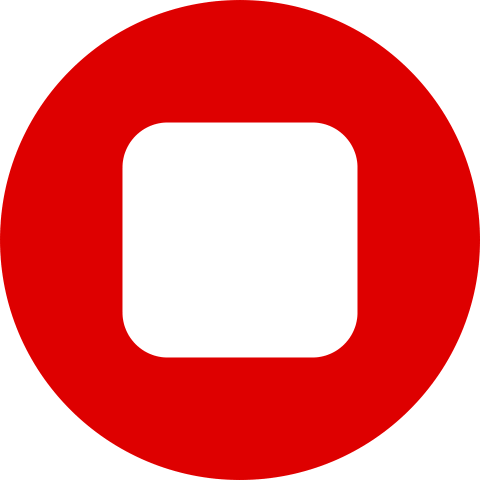
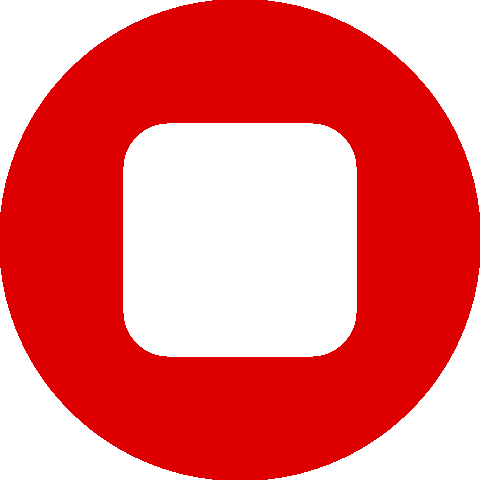
Add stop button to address issue #17

diff --git a/darkstyletheme.cpp b/darkstyletheme.cpp
@@ -7,62 +7,63 @@ DarkStyleTheme::DarkStyleTheme():
 }
 
 DarkStyleTheme::DarkStyleTheme(QStyle *style):
-  QProxyStyle(style)
+    QProxyStyle(style)
 {
 
 }
 
-QStyle *DarkStyleTheme::styleBase(QStyle *style) const {
-  static QStyle *base = !style ? QStyleFactory::create(QStringLiteral("Fusion")) : style;
-  return base;
+QStyle *DarkStyleTheme::styleBase(QStyle *style) const
+{
+    static QStyle *base = !style ? QStyleFactory::create(QStringLiteral("Fusion")) : style;
+    return base;
 }
 
 QStyle *DarkStyleTheme::baseStyle() const
 {
-  return styleBase();
+    return styleBase();
 }
 
 void DarkStyleTheme::polish(QPalette &palette)
 {
-  // modify palette to dark
-  palette.setColor(QPalette::Window,QColor(53,53,53));
-  palette.setColor(QPalette::WindowText,Qt::white);
-  palette.setColor(QPalette::Disabled,QPalette::WindowText,QColor(127,127,127));
-  palette.setColor(QPalette::Base,QColor(42,42,42));
-  palette.setColor(QPalette::AlternateBase,QColor(66,66,66));
-  palette.setColor(QPalette::ToolTipBase,Qt::white);
-  palette.setColor(QPalette::ToolTipText,QColor(53,53,53));
-  palette.setColor(QPalette::Text,Qt::white);
-  palette.setColor(QPalette::Disabled,QPalette::Text,QColor(127,127,127));
-  palette.setColor(QPalette::Dark,QColor(35,35,35));
-  palette.setColor(QPalette::Shadow,QColor(20,20,20));
-  palette.setColor(QPalette::Button,QColor(53,53,53));
-  palette.setColor(QPalette::ButtonText,Qt::white);
-  palette.setColor(QPalette::Disabled,QPalette::ButtonText,QColor(127,127,127));
-  palette.setColor(QPalette::BrightText,Qt::red);
-  palette.setColor(QPalette::Link,QColor(0, 100, 0)); //Green
-  palette.setColor(QPalette::Highlight,QColor(0, 100, 0)); //Green
-  palette.setColor(QPalette::Disabled,QPalette::Highlight,QColor(80,80,80));
-  palette.setColor(QPalette::HighlightedText,Qt::white);
-  palette.setColor(QPalette::Disabled,QPalette::HighlightedText,QColor(127,127,127));
+    // modify palette to dark
+    palette.setColor(QPalette::Window, QColor(53, 53, 53));
+    palette.setColor(QPalette::WindowText, Qt::white);
+    palette.setColor(QPalette::Disabled, QPalette::WindowText, QColor(127, 127, 127));
+    palette.setColor(QPalette::Base, QColor(42, 42, 42));
+    palette.setColor(QPalette::AlternateBase, QColor(66, 66, 66));
+    palette.setColor(QPalette::ToolTipBase, Qt::white);
+    palette.setColor(QPalette::ToolTipText, QColor(53, 53, 53));
+    palette.setColor(QPalette::Text, Qt::white);
+    palette.setColor(QPalette::Disabled, QPalette::Text, QColor(127, 127, 127));
+    palette.setColor(QPalette::Dark, QColor(35, 35, 35));
+    palette.setColor(QPalette::Shadow, QColor(20, 20, 20));
+    palette.setColor(QPalette::Button, QColor(80, 80, 80));
+    palette.setColor(QPalette::ButtonText, Qt::white);
+    palette.setColor(QPalette::Disabled, QPalette::ButtonText, QColor(127, 127, 127));
+    palette.setColor(QPalette::BrightText, Qt::red);
+    palette.setColor(QPalette::Link, QColor(0, 100, 0)); //Green
+    palette.setColor(QPalette::Highlight, QColor(0, 100, 0)); //Green
+    palette.setColor(QPalette::Disabled, QPalette::Highlight, QColor(80, 80, 80));
+    palette.setColor(QPalette::HighlightedText, Qt::white);
+    palette.setColor(QPalette::Disabled, QPalette::HighlightedText, QColor(127, 127, 127));
 }
 
 void DarkStyleTheme::polish(QApplication *app)
 {
-  if (!app) return;
+    if (!app) return;
 
-  //ARTS - Increase font size for better reading,
-  QFont defaultFont = QApplication::font();
-  defaultFont.setPointSize(defaultFont.pointSize()+1);
-  app->setFont(defaultFont);
+    //ARTS - Increase font size for better reading,
+    QFont defaultFont = QApplication::font();
+    defaultFont.setPointSize(defaultFont.pointSize() + 1);
+    app->setFont(defaultFont);
 
-  // Load CSS Stylesheet from resources
-  QFile darkstyle_qss(QStringLiteral(":/darkstyle/stylesheet_dark.qss"));
-  if (darkstyle_qss.open(QIODevice::ReadOnly | QIODevice::Text))
-  {
-    // Set stylesheet
-    QString stylesheet_qss = QString::fromLatin1(darkstyle_qss.readAll());
-    app->setStyleSheet(stylesheet_qss);
-    darkstyle_qss.close();
-  }
+    // Load CSS Stylesheet from resources
+    QFile darkstyle_qss(QStringLiteral(":/darkstyle/stylesheet_dark.qss"));
+    if (darkstyle_qss.open(QIODevice::ReadOnly | QIODevice::Text))
+    {
+        // Set stylesheet
+        QString stylesheet_qss = QString::fromLatin1(darkstyle_qss.readAll());
+        app->setStyleSheet(stylesheet_qss);
+        darkstyle_qss.close();
+    }
 }

diff --git a/mainwindow.cpp b/mainwindow.cpp
@@ -9,7 +9,7 @@
 #include "output.h"
 #include "about.h"
 
-#include <algorithm>
+//#include <algorithm>
 #include <QProgressDialog>
 #include <QShortcut>
 #include <QStandardPaths>
@@ -59,6 +59,7 @@ MainWindow::MainWindow(QWidget *parent) :
     ui->mainToolBar->setIconSize(QSize(25, 25));
     startButton = new QAction(QIcon(QPixmap(":/darkstyle/icon_play_button_green.png")), QString("Run"), this);
     pauseButton = new QAction(QIcon(QPixmap(":/darkstyle/icon_pause_button_orange.png")), QString("Pause"), this);
+    stopButton = new QAction(QIcon(QPixmap(":/darkstyle/icon_stop_button_red.png")), QString("Stop"), this);
     resetButton = new QAction(QIcon(QPixmap(":/darkstyle/icon_reset_button_red.png")), QString("Reset"), this);
     runForButton = new QAction(QIcon(QPixmap(":/darkstyle/icon_play_n_button_green.png")), QString("Batch..."), this);
     settingsButton = new QAction(QIcon(QPixmap(":/darkstyle/icon_settings_2_button.png")), QString("Settings"), this);
@@ -67,6 +68,7 @@ MainWindow::MainWindow(QWidget *parent) :
 
     startButton->setEnabled(true);
     pauseButton->setEnabled(false);
+    stopButton->setEnabled(false);
     resetButton->setEnabled(true);
     runForButton->setEnabled(true);
     settingsButton->setEnabled(true);
@@ -76,6 +78,8 @@ MainWindow::MainWindow(QWidget *parent) :
     ui->mainToolBar->addAction(startButton);
     ui->mainToolBar->addSeparator();
     ui->mainToolBar->addAction(pauseButton);
+    ui->mainToolBar->addSeparator();
+    ui->mainToolBar->addAction(stopButton);
     ui->mainToolBar->addSeparator();
     ui->mainToolBar->addAction(resetButton);
     ui->mainToolBar->addSeparator();
@@ -91,6 +95,7 @@ MainWindow::MainWindow(QWidget *parent) :
 
     QObject::connect(startButton, &QAction::triggered, this, &MainWindow::startTriggered);
     QObject::connect(pauseButton, &QAction::triggered, this, &MainWindow::pauseTriggered);
+    QObject::connect(stopButton, &QAction::triggered, this, &MainWindow::escape);
     QObject::connect(resetButton, &QAction::triggered, this, &MainWindow::resetTriggered);
     QObject::connect(runForButton, &QAction::triggered, this, &MainWindow::runForTriggered);
     QObject::connect(settingsButton, &QAction::triggered, this, &MainWindow::settingsTriggered);
@@ -615,6 +620,7 @@ void MainWindow::startRunGUI()
 {
     startButton->setEnabled(false);
     pauseButton->setEnabled(true);
+    stopButton->setEnabled(true);
     resetButton->setEnabled(false);
     runForButton->setEnabled(false);
     settingsButton->setEnabled(false);
@@ -626,6 +632,7 @@ void MainWindow::finishRunGUI()
 {
     startButton->setEnabled(true);
     pauseButton->setEnabled(false);
+    stopButton->setEnabled(false);
     resetButton->setEnabled(true);
     runForButton->setEnabled(true);
     settingsButton->setEnabled(true);

diff --git a/mainwindow.h b/mainwindow.h
@@ -60,6 +60,7 @@ private:
     //GUI objects
     QAction *startButton;
     QAction *pauseButton;
+    QAction *stopButton;
     QAction *resetButton;
     QAction *runForButton;
     QAction *settingsButton;
